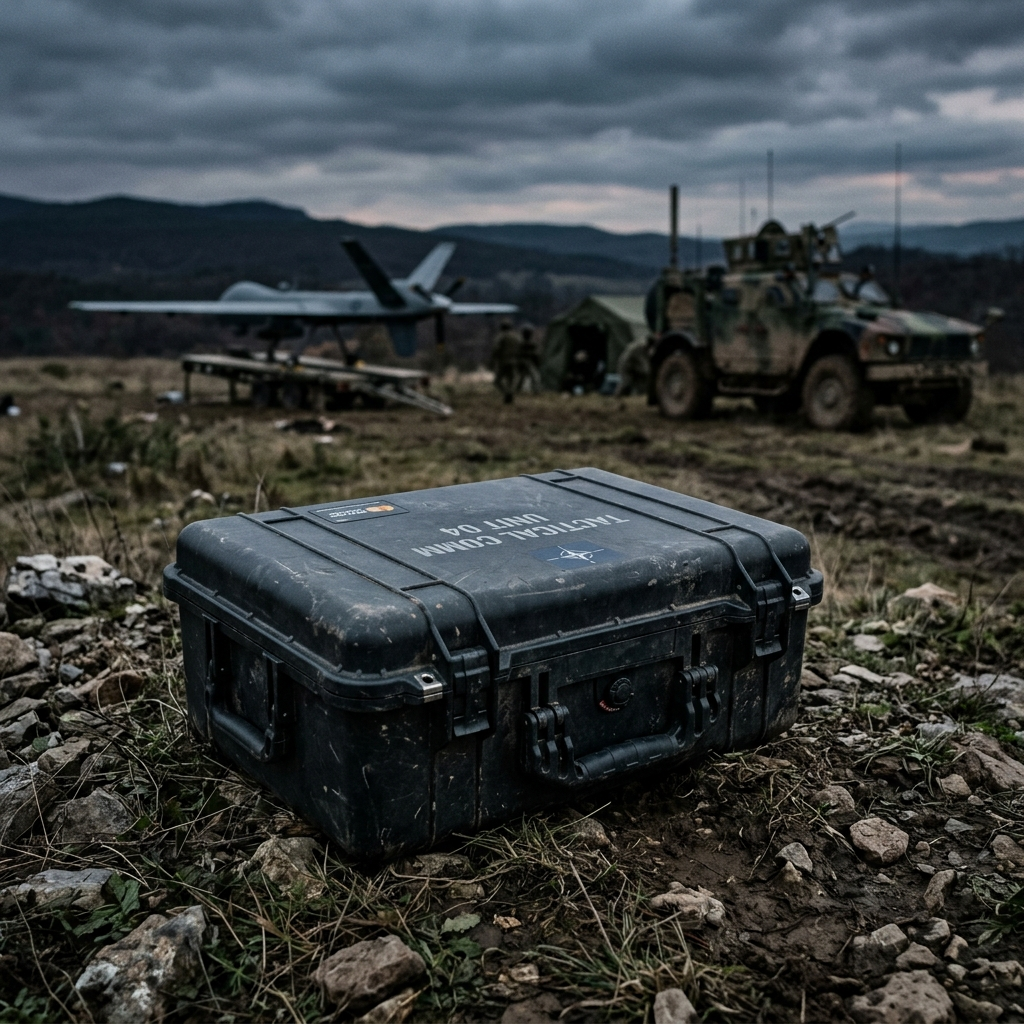
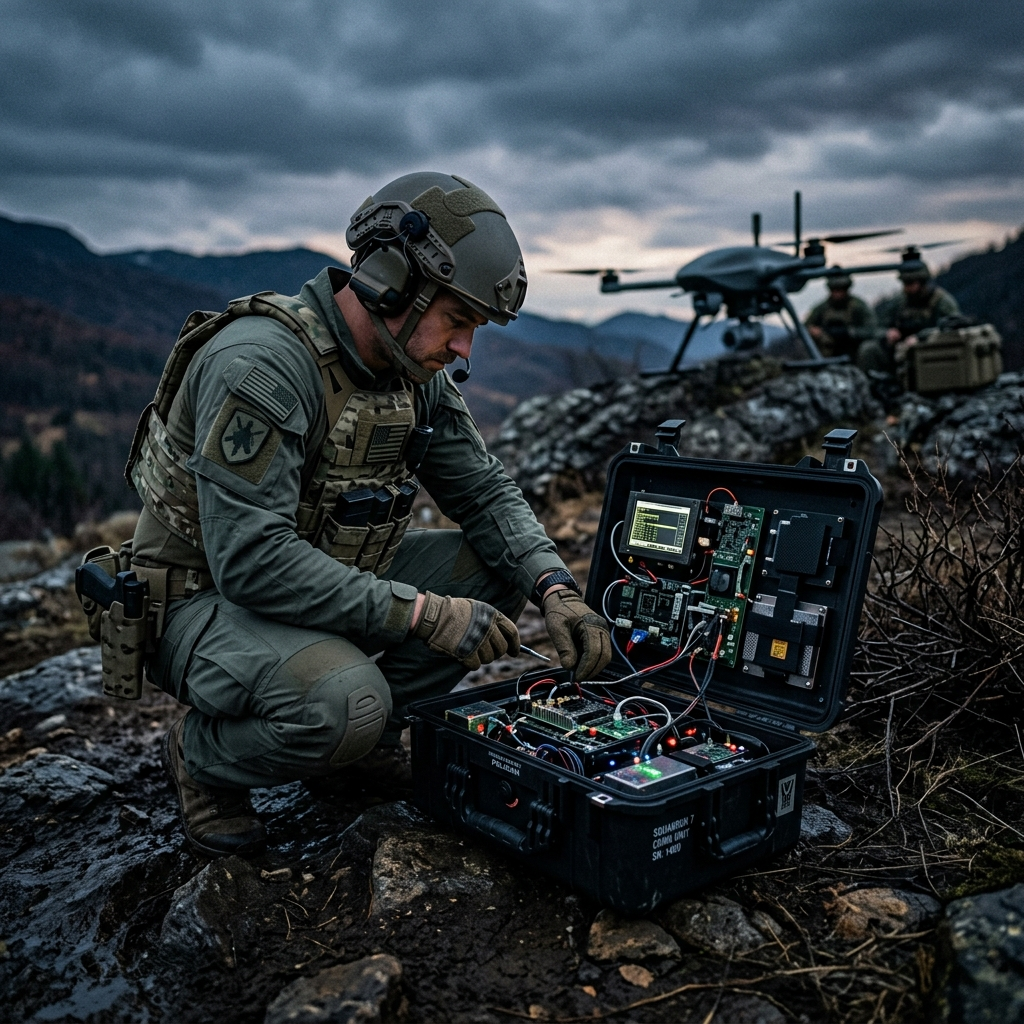
feat: replace hero images with people interacting with cases and lighten CSS overlay

diff --git a/defense.html b/defense.html
@@ -16,7 +16,7 @@
     .defense-hero {
       padding-top: 160px;
       padding-bottom: 100px;
-      background: linear-gradient(180deg, rgba(16,18,22,0.85) 0%, #0b0c0e 100%), url('assets/defense_hero.png') center/cover no-repeat;
+      background: linear-gradient(180deg, rgba(16,18,22,0.4) 0%, #0b0c0e 100%), url('assets/defense_hero.png') center/cover no-repeat;
       border-bottom: 1px solid var(--line);
     }
     .defense-hero h1 {

diff --git a/ngo.html b/ngo.html
@@ -16,7 +16,7 @@
     .rescue-hero {
       padding-top: 160px;
       padding-bottom: 100px;
-      background: linear-gradient(180deg, rgba(16,18,22,0.85) 0%, #0b0c0e 100%), url('assets/ngo_hero.png') center/cover no-repeat;
+      background: linear-gradient(180deg, rgba(16,18,22,0.4) 0%, #0b0c0e 100%), url('assets/ngo_hero.png') center/cover no-repeat;
       border-bottom: 1px solid var(--line);
     }
     .rescue-hero h1 {
